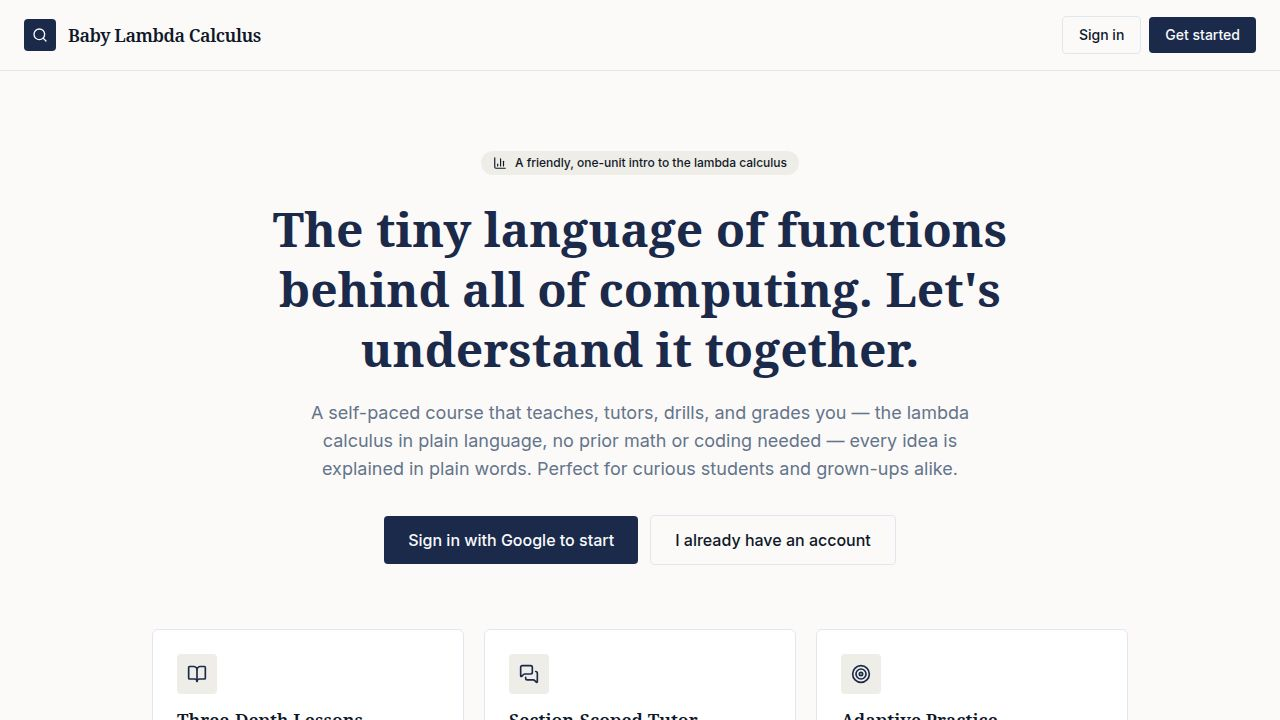
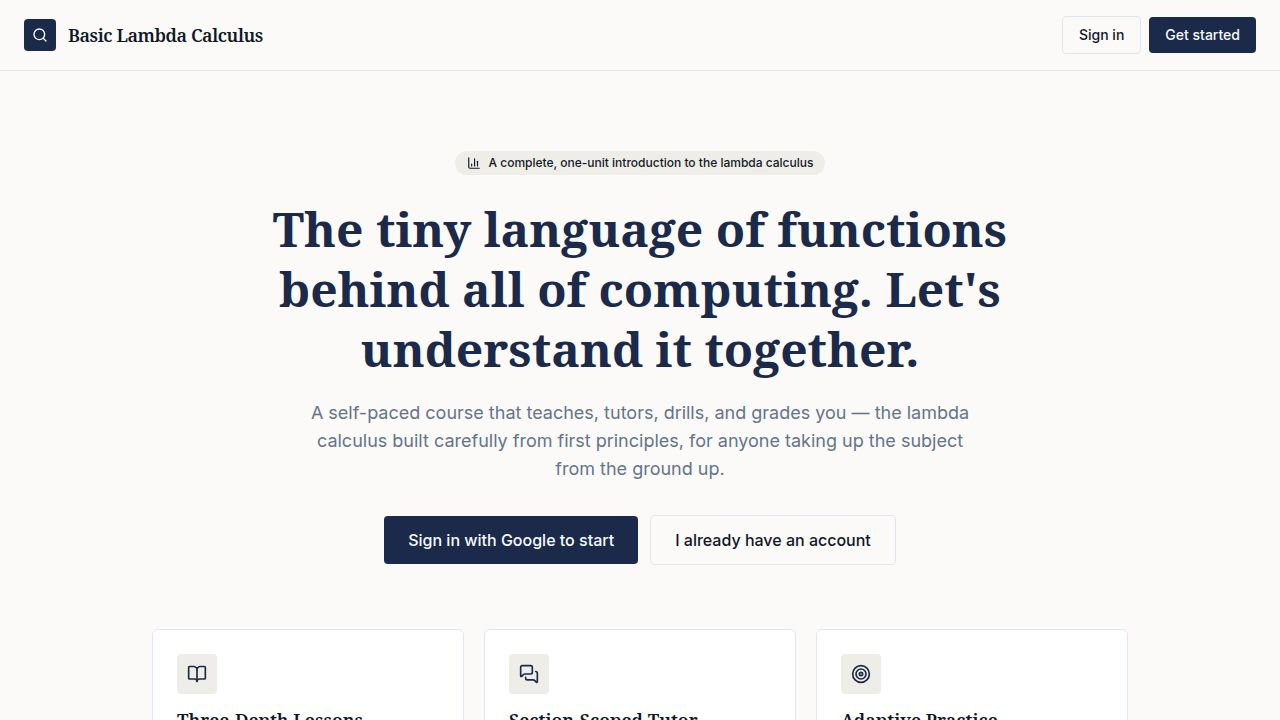
Update course name and descriptions to reflect adult audience
Rename course from "Baby Lambda Calculus" to "Basic Lambda Calculus" across all files, including README, video titles, descriptions, and asset filenames.

Replit-Commit-Author: Agent
Replit-Commit-Session-Id: 53240747-0e57-4a67-9f42-7d9d92c89e05
Replit-Commit-Checkpoint-Type: full_checkpoint
Replit-Commit-Event-Id: c658266a-570a-4efc-841e-d0feb520f8d8
Replit-Commit-Screenshot-Url: https://storage.googleapis.com/screenshot-production-us-central1/af20185a-7dbf-445b-a06a-4343601fb20c/53240747-0e57-4a67-9f42-7d9d92c89e05/S8AK7Hp

Changed region(s): [[0.25, 0.5806, 0.75, 0.6722], [0.3438, 0.2139, 0.625, 0.2444], [0.0625, 0.0306, 0.2188, 0.0611]]

diff --git a/artifacts/api-server/src/lib/seed.ts b/artifacts/api-server/src/lib/seed.ts
@@ -14,7 +14,7 @@ import { logger } from "./logger";
 // the value stored in seed_meta; a mismatch forces a full re-seed, so content
 // edits self-heal in every environment (including a republished production)
 // without a manual database wipe.
-const SEED_CONTENT_VERSION = "2026-06-18-baby-lambda-calculus-v1";
+const SEED_CONTENT_VERSION = "2026-06-19-basic-lambda-calculus-v1";
 
 type SeedTopic = {
   slug: string;
@@ -26,7 +26,7 @@ type SeedTopic = {
 };
 
 const TOPICS: SeedTopic[] = [
-  // Unit 1 — Baby Lambda Calculus: everything is a function
+  // Unit 1 — Basic Lambda Calculus: everything is a function
   {
     slug: "what-lambda-calculus-is",
     title: "What the lambda calculus is",
@@ -384,7 +384,7 @@ const ASSIGNMENTS: SeedAssignment[] = [
   },
   {
     kind: "test",
-    title: "Unit Test — Baby Lambda Calculus: Everything Is a Function",
+    title: "Unit Test — Basic Lambda Calculus: Everything Is a Function",
     weekNumber: 1,
     isTimed: true,
     timeLimitMinutes: 30,
@@ -467,7 +467,7 @@ const ASSIGNMENTS: SeedAssignment[] = [
   },
   {
     kind: "final",
-    title: "Final — Baby Lambda Calculus: Everything Is a Function",
+    title: "Final — Basic Lambda Calculus: Everything Is a Function",
     weekNumber: 1,
     isTimed: true,
     timeLimitMinutes: 45,
@@ -645,7 +645,7 @@ export async function seedReasoningPrimersIfMissing(): Promise<void> {
 }
 
 export async function seedIfEmpty(): Promise<void> {
-  // The course was migrated to the Baby Lambda Calculus syllabus. Detect the
+  // The course was migrated to the Basic Lambda Calculus syllabus. Detect the
   // marker topic; if present and the content version matches, the content is
   // current and we skip. This makes the seed self-healing across environments: a
   // database that still holds older content (e.g. a previous curriculum) is
@@ -694,7 +694,7 @@ export async function seedIfEmpty(): Promise<void> {
     const row = (existing.rows[0] ?? {}) as { n?: number };
     if ((row.n ?? 0) > 0) {
       logger.warn(
-        "Seed: stale course content detected — replacing with the Baby Lambda Calculus curriculum",
+        "Seed: stale course content detected — replacing with the Basic Lambda Calculus curriculum",
       );
       await tx.execute(
         sql`TRUNCATE TABLE answers, attempts, practice_attempts, practice_problems, practice_sessions, problems, assignments, lectures, topics, diagnostic_responses, diagnostic_attempts, diagnostic_items, diagnostic_assessments RESTART IDENTITY CASCADE`,

diff --git a/artifacts/qr-course/index.html b/artifacts/qr-course/index.html
@@ -3,14 +3,14 @@
   <head>
     <meta charset="UTF-8" />
     <meta name="viewport" content="width=device-width, initial-scale=1.0" />
-    <title>Baby Lambda Calculus</title>
-    <meta name="description" content="Baby Lambda Calculus — a friendly, self-paced intro to the lambda calculus for students and curious adults: plain-language lessons, an AI tutor, adaptive practice, and AI-graded work. No prior math or coding required." />
-    <meta property="og:title" content="Baby Lambda Calculus" />
-    <meta property="og:description" content="Baby Lambda Calculus — a friendly, self-paced intro to the lambda calculus for students and curious adults: plain-language lessons, an AI tutor, adaptive practice, and AI-graded work. No prior math or coding required." />
+    <title>Basic Lambda Calculus</title>
+    <meta name="description" content="Basic Lambda Calculus — a complete, self-paced introduction to the lambda calculus, built from first principles: lessons at three depths, a section-scoped AI tutor, adaptive practice, and AI-graded homework, a unit test, and a final, with two-layer AI-authorship detection." />
+    <meta property="og:title" content="Basic Lambda Calculus" />
+    <meta property="og:description" content="Basic Lambda Calculus — a complete, self-paced introduction to the lambda calculus, built from first principles: lessons at three depths, a section-scoped AI tutor, adaptive practice, and AI-graded homework, a unit test, and a final, with two-layer AI-authorship detection." />
     <meta property="og:type" content="website" />
     <meta name="twitter:card" content="summary_large_image" />
-    <meta name="twitter:title" content="Baby Lambda Calculus" />
-    <meta name="twitter:description" content="Baby Lambda Calculus — a friendly, self-paced intro to the lambda calculus for students and curious adults: plain-language lessons, an AI tutor, adaptive practice, and AI-graded work. No prior math or coding required." />
+    <meta name="twitter:title" content="Basic Lambda Calculus" />
+    <meta name="twitter:description" content="Basic Lambda Calculus — a complete, self-paced introduction to the lambda calculus, built from first principles: lessons at three depths, a section-scoped AI tutor, adaptive practice, and AI-graded homework, a unit test, and a final, with two-layer AI-authorship detection." />
     <link rel="icon" type="image/svg+xml" href="/favicon.svg" />
     <link rel="preconnect" href="https://fonts.googleapis.com">
     <link rel="preconnect" href="https://fonts.gstatic.com" crossorigin>

diff --git a/artifacts/qr-course/src/pages/Landing.tsx b/artifacts/qr-course/src/pages/Landing.tsx
@@ -62,7 +62,7 @@ export default function Landing() {
             <Search className="w-4 h-4" />
           </div>
           <span className="font-serif font-semibold text-lg tracking-tight">
-            Baby Lambda Calculus
+            Basic Lambda Calculus
           </span>
         </div>
         <div className="flex items-center gap-2">
@@ -89,15 +89,15 @@ export default function Landing() {
         <section className="max-w-4xl mx-auto px-6 pt-20 pb-16 text-center">
           <div className="inline-flex items-center gap-2 px-3 py-1 rounded-full bg-secondary text-secondary-foreground text-xs font-medium mb-6">
             <BarChart3 className="w-3.5 h-3.5" />
-            A friendly, one-unit intro to the lambda calculus
+            A complete, one-unit introduction to the lambda calculus
           </div>
           <h1 className="text-4xl md:text-5xl font-serif font-bold text-primary leading-tight mb-5">
             The tiny language of functions behind all of computing. Let's understand it together.
           </h1>
           <p className="text-lg text-muted-foreground max-w-2xl mx-auto mb-8">
-            A self-paced course that teaches, tutors, drills, and grades you —
-            the lambda calculus in plain language, no prior math or coding needed — every idea
-            is explained in plain words. Perfect for curious students and grown-ups alike.
+            A self-paced course that teaches, tutors, drills, and grades you — the
+            lambda calculus built carefully from first principles, for anyone taking
+            up the subject from the ground up.
           </p>
           <div className="flex items-center justify-center gap-3">
             <Link href="/sign-up">
@@ -162,7 +162,7 @@ export default function Landing() {
       </main>
 
       <footer className="border-t border-border px-6 py-6 text-center text-sm text-muted-foreground">
-        Baby Lambda Calculus — where the curriculum, the tutor, the grader, and the
+        Basic Lambda Calculus — where the curriculum, the tutor, the grader, and the
         integrity check all live in one room.
       </footer>
     </div>

diff --git a/artifacts/course-video/index.html b/artifacts/course-video/index.html
@@ -3,17 +3,17 @@
   <head>
     <meta charset="UTF-8" />
     <meta name="viewport" content="width=device-width, initial-scale=1.0, maximum-scale=1" />
-    <title>Baby Lambda Calculus — Walkthrough</title>
+    <title>Basic Lambda Calculus — Walkthrough</title>
     <link rel="icon" type="image/svg+xml" href="/favicon.svg" />
 
-    <meta property="og:title" content="Baby Lambda Calculus — Walkthrough" />
-    <meta property="og:description" content="A friendly product walkthrough of Baby Lambda Calculus — an AI course that teaches, tutors, drills, and grades a plain-language intro to the lambda calculus, with built-in AI-authorship detection." />
+    <meta property="og:title" content="Basic Lambda Calculus — Walkthrough" />
+    <meta property="og:description" content="A product walkthrough of Basic Lambda Calculus — an AI course that teaches, tutors, drills, and grades a complete introduction to the lambda calculus, with built-in AI-authorship detection." />
     <meta property="og:type" content="website" />
     <meta property="og:image" content="https://replit.com/public/images/opengraph.png" />
     <meta name="twitter:card" content="summary_large_image" />
     <meta name="twitter:site" content="@replit" />
-    <meta name="twitter:title" content="Baby Lambda Calculus — Walkthrough" />
-    <meta name="twitter:description" content="A friendly product walkthrough of Baby Lambda Calculus — an AI course that teaches, tutors, drills, and grades a plain-language intro to the lambda calculus, with built-in AI-authorship detection." />
+    <meta name="twitter:title" content="Basic Lambda Calculus — Walkthrough" />
+    <meta name="twitter:description" content="A product walkthrough of Basic Lambda Calculus — an AI course that teaches, tutors, drills, and grades a complete introduction to the lambda calculus, with built-in AI-authorship detection." />
     <meta name="twitter:image" content="https://replit.com/public/images/opengraph.png" />
 
     <link rel="preconnect" href="https://fonts.googleapis.com">

diff --git a/artifacts/api-server/src/routes/course.ts b/artifacts/api-server/src/routes/course.ts
@@ -21,9 +21,9 @@ const router: IRouter = Router();
 
 const WEEK_TITLES: Record<number, { title: string; summary: string }> = {
   1: {
-    title: "Baby Lambda Calculus: Everything Is a Function",
+    title: "Basic Lambda Calculus: Everything Is a Function",
     summary:
-      "What the lambda calculus really is and why a tiny language of nothing but functions can capture all of computation, how computation happens as beta reduction (rewriting by substitution), why bound and free variables and renaming matter, how Church numerals build numbers from nothing, how booleans and logic and choice come from pure functions, how the Y combinator conjures recursion with no names, how the lambda calculus turns out to be exactly as powerful as Turing machines, and how it all grew into the real programming languages we use — all in plain language, no prior math or coding required.",
+      "What the lambda calculus really is and why a tiny language of nothing but functions can capture all of computation, how computation happens as beta reduction (rewriting by substitution), why bound and free variables and renaming matter, how Church numerals build numbers from nothing, how booleans and logic and choice come from pure functions, how the Y combinator conjures recursion with no names, how the lambda calculus turns out to be exactly as powerful as Turing machines, and how it all grew into the real programming languages we use — all built carefully from first principles, assuming no prior exposure to the subject.",
   },
 };
 
@@ -112,7 +112,7 @@ router.get("/course/overview", async (_req, res) => {
 
   res.json(
     GetCourseOverviewResponse.parse({
-      title: "Baby Lambda Calculus",
+      title: "Basic Lambda Calculus",
       weeks,
       totals: { assignmentsCompleted, assignmentsTotal, practiceCount },
     }),

diff --git a/artifacts/qr-course/src/App.tsx b/artifacts/qr-course/src/App.tsx
@@ -235,13 +235,13 @@ function ClerkProviderWithRoutes() {
         signIn: {
           start: {
             title: "Welcome back",
-            subtitle: "Sign in to continue your Baby Lambda Calculus course",
+            subtitle: "Sign in to continue your Basic Lambda Calculus course",
           },
         },
         signUp: {
           start: {
             title: "Create your account",
-            subtitle: "Start your lambda calculus journey with Baby Lambda Calculus",
+            subtitle: "Start your lambda calculus journey with Basic Lambda Calculus",
           },
         },
       }}

diff --git a/artifacts/qr-course/src/components/layout/Layout.tsx b/artifacts/qr-course/src/components/layout/Layout.tsx
@@ -30,7 +30,7 @@ export function Sidebar() {
             <div className="w-8 h-8 bg-primary rounded-md flex items-center justify-center text-primary-foreground">
               <Search className="w-4 h-4" />
             </div>
-            <span className="font-serif font-semibold text-lg tracking-tight">Baby Lambda Calculus</span>
+            <span className="font-serif font-semibold text-lg tracking-tight">Basic Lambda Calculus</span>
           </div>
         </Link>
       </div>
@@ -56,7 +56,7 @@ export function Sidebar() {
       </div>
 
       <div className="p-4 border-t border-border text-xs text-muted-foreground text-center">
-        Baby Lambda Calculus
+        Basic Lambda Calculus
       </div>
     </div>
   );

diff --git a/artifacts/course-video/src/components/video/AppShell.tsx b/artifacts/course-video/src/components/video/AppShell.tsx
@@ -19,7 +19,7 @@ export function AppShell({ children, activeTab = 'Dashboard' }: { children: Reac
           <div className="w-8 h-8 rounded-md bg-[#1A2B3D] flex items-center justify-center">
             <Search className="w-5 h-5 text-white" />
           </div>
-          <span className="font-display font-bold text-lg">Baby Lambda Calculus</span>
+          <span className="font-display font-bold text-lg">Basic Lambda Calculus</span>
         </div>
         
         <nav className="flex flex-col gap-2 flex-1">

diff --git a/artifacts/course-video/src/components/video/video_scenes/Scene1.tsx b/artifacts/course-video/src/components/video/video_scenes/Scene1.tsx
@@ -56,7 +56,7 @@ export function Scene1() {
           animate={phase >= 1 ? { y: 0, opacity: 1, filter: 'blur(0px)' } : { y: 40, opacity: 0, filter: 'blur(10px)' }}
           transition={{ type: 'spring', damping: 24, stiffness: 100 }}
         >
-          Baby Lambda<br />Calculus
+          Basic Lambda<br />Calculus
         </motion.h1>
         
         <motion.p 

diff --git a/artifacts/course-video/src/components/video/video_scenes/Scene9.tsx b/artifacts/course-video/src/components/video/video_scenes/Scene9.tsx
@@ -39,7 +39,7 @@ export function Scene9() {
           transition={{ type: "spring", damping: 20, stiffness: 100 }}
         >
           <h1 className="text-[7vw] font-black text-white tracking-tighter leading-none mb-6">
-            Baby Lambda<br />Calculus
+            Basic Lambda<br />Calculus
           </h1>
         </motion.div>
 

diff --git a/artifacts/qr-course/src/pages/Dashboard.tsx b/artifacts/qr-course/src/pages/Dashboard.tsx
@@ -18,7 +18,7 @@ export default function Dashboard() {
           <h1 className="text-3xl font-serif font-bold text-primary mb-2">
             {overview ? overview.title : <Skeleton className="h-9 w-64" />}
           </h1>
-          <p className="text-muted-foreground">Welcome to your Baby Lambda Calculus course workspace.</p>
+          <p className="text-muted-foreground">Welcome to your Basic Lambda Calculus course workspace.</p>
         </div>
 
         <ReasoningCallout phase="before" />

diff --git a/.agents/memory/course-naming-audience-mandate.md b/.agents/memory/course-naming-audience-mandate.md
@@ -1,0 +1,38 @@
+---
+name: Course naming + audience mandate
+description: Hard user rules on how the AI course must be named and positioned — never childish, exact YouTube title format, adult audience.
+---
+
+# Naming + audience mandate
+
+Strong, emphatic user mandate governing how the course brand is named and pitched.
+
+## The app name must be literal/utilitarian — never goofy, cute, or childish
+- If a name is "Baby X" or "X for Children", rename to "Basic X" (e.g. "Baby Lambda
+  Calculus" → "Basic Lambda Calculus"). Prefer the plainest possible name
+  ("Data Analytics", "Formal Logic", "Ethics", "Basic AI").
+- The words **"Baby"** and **"children"/"kids"** must appear **NOWHERE** — not in copy,
+  not in the video, not in README, not even in exported asset filenames (old
+  `BABY-...mp4` exports must be renamed) — UNLESS the actual subject matter references
+  them (e.g. developmental psychology).
+
+## Audience is adults, usually researchers
+Positioning is adults taking up a new discipline — graduate students, researchers,
+faculty — plus instructors and academic-integrity researchers. Never "middle
+schoolers / curious students / grown-ups".
+
+## Never lead with "no math / no coding / kid-friendly"
+Do not sell the course on what it lacks. README/description/video must showcase the
+**wealth of substantial content**. "It assumes no prior exposure" is acceptable framing;
+"No prior math! No jargon!" is not. The video must show real functionality, not be goofy.
+
+## YouTube description app title — exact format
+The app title line in the YouTube description MUST be exactly: `X — AI-Powered Course`
+(em dash, no extra descriptors). e.g. `Basic Lambda Calculus — AI-Powered Course`.
+Do not append blurbs like "— an AI-Powered course that teaches and grades!".
+
+**Why:** Repeated, angry user mandate; the user considers childish/"no-math" framing as
+slander of substantial work.
+**How to apply:** On any rebrand, sweep content AND filenames AND `.replit-artifact/`
+toml titles (rg skips dot-dirs; use `--hidden` or check each toml). Keep the one-line
+YouTube title in the mandated format.